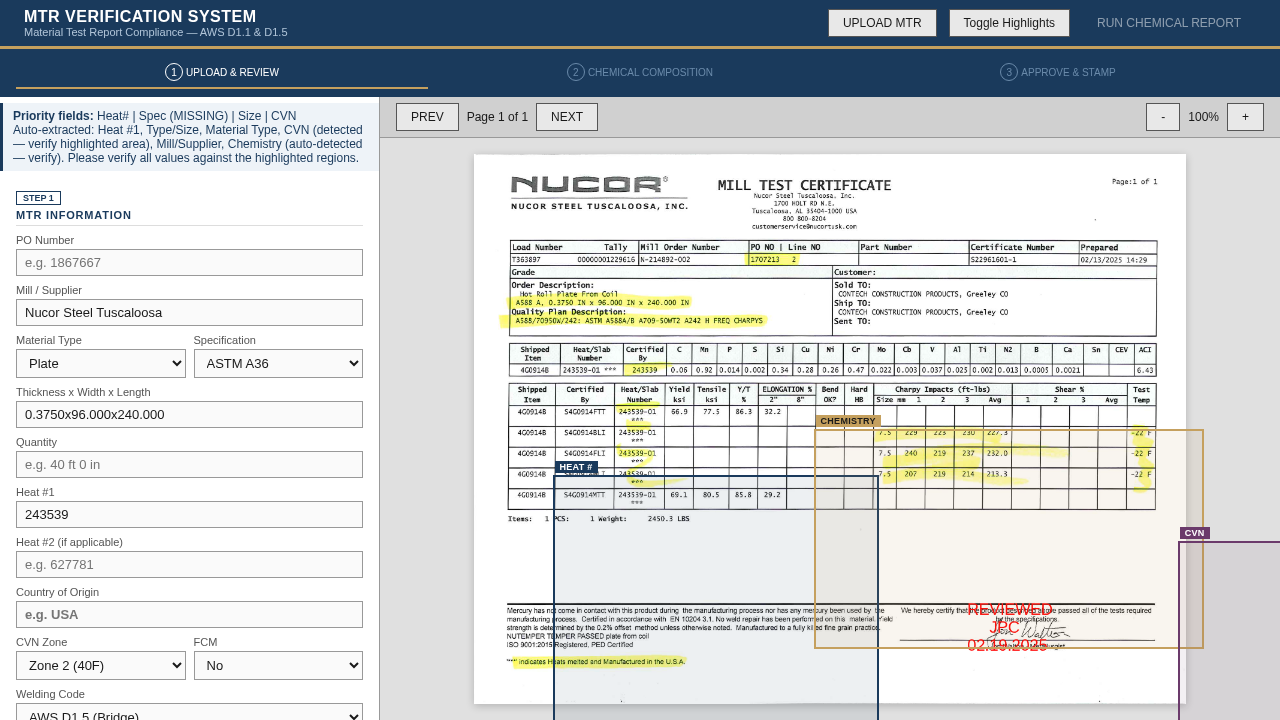
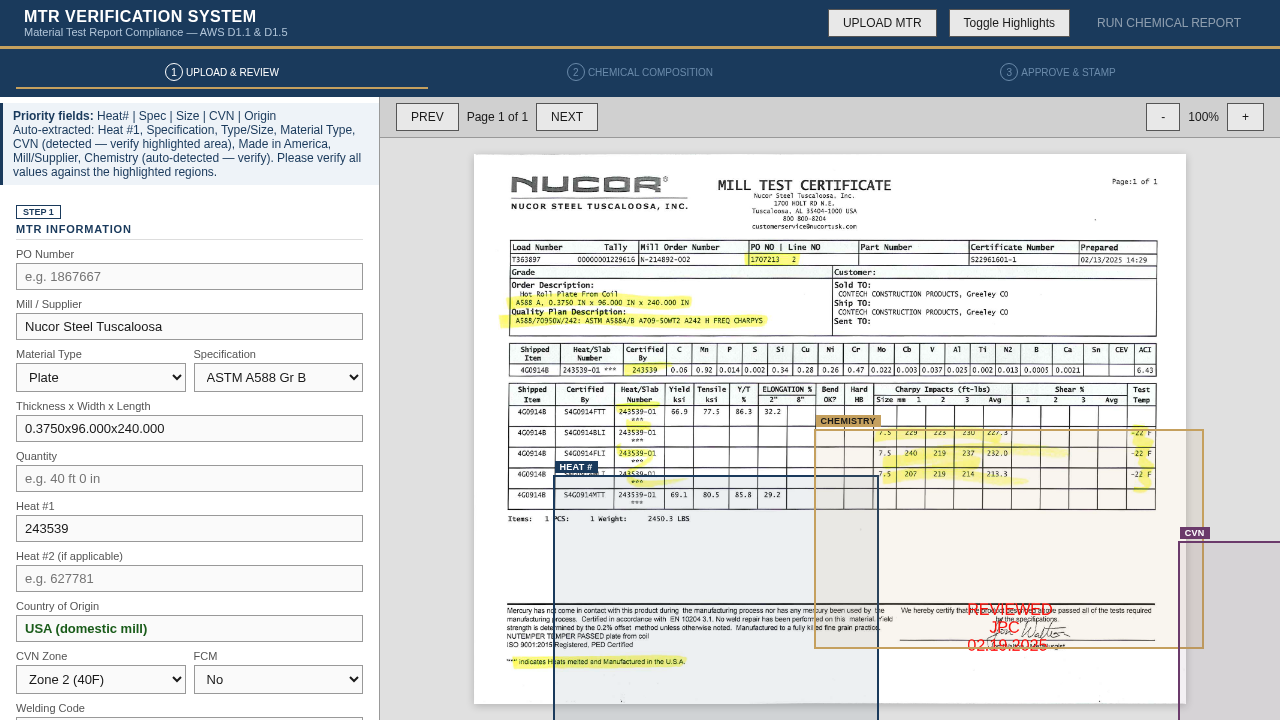
Auto-commit agent changes

diff --git a/conversations/6a6b81c94bc0607c48a32cc0/mtr_verifier.html b/conversations/6a6b81c94bc0607c48a32cc0/mtr_verifier.html
@@ -695,8 +695,17 @@ async function extractMtrData() {
         });
 
         var pageOcrText = (result && result.data && result.data.text) || '';
+        // Also build text from word list (more complete — result.data.text sometimes misses words)
+        var ocrWordText = '';
+        if (result && result.data && result.data.words) {
+          ocrWordText = result.data.words.filter(function(w) { return w.text; }).map(function(w) { return w.text; }).join(' ');
+        }
         ocrText += pageOcrText + '\n';
         allText += pageOcrText + '\n';
+        // Append word text as supplement if it's significantly longer (catches missed words)
+        if (ocrWordText.length > pageOcrText.length * 1.1) {
+          allText += ocrWordText + '\n';
+        }
 
         var ocrWords = [];
         if (result && result.data && result.data.words) {
@@ -744,7 +753,7 @@ function parseMtrText(text, area) {
     var raw = hm[1];
     var val = raw.replace(/t/gi, '1').replace(/I/g, '1').replace(/o/gi, '0').replace(/O/g, '0').replace(/[^A-Z0-9]/gi, '');
     var digitCount = (val.match(/\d/g) || []).length;
-    if (val.length >= 5 && val.length <= 12 && digitCount >= 4 && heatNums.indexOf(val) === -1) {
+    if (val.length >= 5 && val.length <= 14 && digitCount >= 4 && heatNums.indexOf(val) === -1) {
       // Exclude numbers that appear after weight/qty labels
       var ctx = flat.substring(Math.max(0, hm.index - 25), hm.index);
       if (!/LBS|PCS|LB\s|WEIGHT|DLVRY|Date|Total|Order|Load|Tally|Phone|ZIP|Cert\b|BOL\b|Material|Sales|Mill|Page/i.test(ctx)) {
@@ -776,7 +785,7 @@ function parseMtrText(text, area) {
 
   // Strategy 4: Any standalone 6-7 digit number near "heat" or "slab" keyword (fuzzy)
   if (heatNums.length === 0) {
-    var fuzzyHeatRe = /(\d{6,7})(?=[^0-9])/g;
+    var fuzzyHeatRe = /\b(\d{6,8})\b/g;
     while ((hm = fuzzyHeatRe.exec(flat)) !== null) {
       var ctx2 = flat.substring(Math.max(0, hm.index - 50), hm.index + 30);
       if (/HEAT|SLAB|MELT|POUR/i.test(ctx2) && heatNums.indexOf(hm[1]) === -1) {
@@ -852,7 +861,7 @@ function parseMtrText(text, area) {
     // A572-50
     if (!specDetected && /\bA572[\s\-\/]*(?:GR(?:ADE)?\.?\s*)?50/i.test(flat)) specDetected = 'A572-50';
     // A500-B/C (HSS tubing)
-    if (!specDetected && /\bA500[\s\-\/]*(?:GR(?:ADE)?\.?\s*)?[BC]/i.test(flat)) specDetected = 'A500-B';
+    if (!specDetected && /\bA500[\d\s\-\/]*(?:GR(?:ADE)?\.?\s*)?[BC]/i.test(flat)) specDetected = 'A500-B';
     // A992: non-weathering beam steel
     if (!specDetected && /\bA992\b/i.test(flat)) specDetected = 'A992';
     // A36: mild steel (check last — it's common in remarks too)
@@ -957,6 +966,21 @@ function parseMtrText(text, area) {
       }
       initChem();
     }
+    // HSS size fallback: if material is HSS but size wasn't found via "HSS" prefix,
+    // try generic "WxHxWall" pattern (OCR may garble the "HSS" label)
+    if (matDetected.indexOf('hss') === 0 && !sizeStr) {
+      // Look for "WxHxWall" near "Material" label (Atlas Tube format)
+      var hssDim = flat.match(/Material\s*:?\s*[~]*\s*(\d+(?:\.\d+)?)\s*[Xx]\s*(\d+(?:\.\d+)?)\s*[Xx]\s*(\d{3,4}(?:\.\d+)?)/i);
+      if (!hssDim) {
+        // Fallback: any "WxHxWall" pattern with wall = 3-4 digits (e.g. 375 = 0.375")
+        hssDim = flat.match(/(\d{1,3}(?:\.\d+)?)\s*[Xx]\s*(\d{1,3}(?:\.\d+)?)\s*[Xx]\s*(\d{3,4}(?:\.\d+)?)(?![\d.])/);
+      }
+      if (hssDim) {
+        sizeStr = hssDim[1] + 'x' + hssDim[2] + 'x' + hssDim[3];
+        document.getElementById('beam-type').value = sizeStr;
+        if (found.indexOf('Type/Size') === -1) found.push('Type/Size');
+      }
+    }
     found.push('Material Type');
   }
 
@@ -979,6 +1003,10 @@ function parseMtrText(text, area) {
     countryOrigin = 'USA';
   } else if (/BUY\s+AMER/i.test(flat)) {
     countryOrigin = 'USA (Buy America)';
+  }
+  // Fallback: known domestic mills with USA in address (catches OCR-missed origin text)
+  if (!countryOrigin && /USA\b/i.test(flat) && /NUCOR|CMC\s+STEEL|ATLAS\s+TUBE|STEEL\s+ALABAMA|TUSCALOOSA|YAMATO|NIPPON|BERKSHIRE|STEEL\s+DYNAMICS|GALLATIN/i.test(flat)) {
+    countryOrigin = 'USA (domestic mill)';
   }
   if (countryOrigin) {
     document.getElementById('country-origin').value = countryOrigin;

diff --git a/conversations/6a6b81c94bc0607c48a32cc0/test_debug2.js b/conversations/6a6b81c94bc0607c48a32cc0/test_debug2.js
@@ -1,0 +1,97 @@
+const { chromium } = require('playwright');
+
+(async () => {
+  const browser = await chromium.launch();
+  
+  const tests = [
+    { name: 'CMC Channel', file: 'incoming_files/2a5e1d73e_1096119C8X1875A36PO-1723925.pdf' },
+    { name: 'Atlas Tube', file: 'incoming_files/a7d1dca58_822K36240HSS10SQX375A500PO-1755673.pdf' }
+  ];
+
+  for (const t of tests) {
+    const page = await browser.newPage();
+    page.on('dialog', async d => { await d.accept(); });
+    
+    // Use addInitScript to override before page scripts load
+    await page.addInitScript(() => {
+      window.__rawTexts = [];
+      const origParse = window.parseMtrText;
+      // Use defineProperty to intercept
+      Object.defineProperty(window, 'parseMtrText', {
+        get: function() { return function(text, area) { window.__rawTexts.push(text); return window.__origParseMtrText.call(this, text, area); }; },
+        set: function(v) { window.__origParseMtrText = v; },
+        configurable: true
+      });
+    });
+    
+    await page.goto('http://localhost:8899/mtr_verifier.html', { waitUntil: 'networkidle' });
+    await page.waitForTimeout(500);
+    
+    const fileInput = await page.$('#file-input');
+    await fileInput.setInputFiles(t.file);
+    for (let i = 0; i < 40; i++) {
+      await page.waitForTimeout(1000);
+      const statusText = await page.evaluate(() => document.getElementById('extract-area')?.innerText || '');
+      if (statusText.includes('Auto-extracted') || statusText.includes('Could not')) break;
+    }
+    
+    const rawTexts = await page.evaluate(() => window.__rawTexts || []);
+    const rawText = rawTexts.length > 0 ? rawTexts[0] : '';
+    var flat = rawText.replace(/[ \t]+/g,' ').replace(/\s*\n\s*/g,' \n ').trim().replace(/\n/g,' ').replace(/\s+/g,' ');
+    flat = flat.replace(/\bAS88\b/gi,'A588').replace(/\bAS36\b/gi,'A36');
+    
+    console.log('\n=== ' + t.name + ' (len=' + rawText.length + ') ===');
+    
+    if (rawText.length === 0) {
+      // Fallback: read from pageContentCache
+      const cached = await page.evaluate(() => {
+        var out = [];
+        for (var k in window.pageContentCache) {
+          var c = window.pageContentCache[k];
+          if (c.type === 'ocr' && c.words) out.push(c.words.map(w=>w.str).join(' '));
+          else if (c.type === 'text' && c.items) out.push(c.items.map(it=>it.str).join(' '));
+        }
+        return out.join('\n');
+      });
+      console.log('Using cache instead, len:', cached.length);
+      flat = cached.replace(/\n/g,' ').replace(/\s+/g,' ');
+      flat = flat.replace(/\bAS88\b/gi,'A588').replace(/\bAS36\b/gi,'A36');
+    }
+    
+    // Search for size patterns
+    console.log('--- Size ---');
+    var sizeRes = [/C\d+X\d+\.?\d*/gi, /W\d+X\d+/gi, /HSS\d+/gi, /10\s*SQ/gi, /\d+\.?\d*X\d+\.?\d*X\d+\.?\d*/gi];
+    for (var p of sizeRes) {
+      var m;
+      while ((m = p.exec(flat)) !== null) {
+        console.log(m[0], 'ctx:', flat.substring(Math.max(0,m.index-15), m.index+m[0].length+10).replace(/\n/g,'|'));
+      }
+    }
+    
+    // Spec patterns
+    console.log('--- Spec ---');
+    [/A500/g, /A588/g, /A36/g, /A709/g, /GRADE/gi].forEach(function(sp) {
+      var m;
+      while ((m = sp.exec(flat)) !== null) {
+        console.log(m[0], 'ctx:', flat.substring(Math.max(0,m.index-5), m.index+m[0].length+20).replace(/\n/g,'|'));
+      }
+    });
+    
+    // Numbers
+    console.log('--- Numbers ---');
+    var nm; var numRe = /\b(\d{6,})\b/g;
+    while ((nm = numRe.exec(flat)) !== null) {
+      console.log(nm[1], 'ctx:', flat.substring(Math.max(0,nm.index-15), nm.index+nm[1].length+5).replace(/\n/g,'|'));
+    }
+    
+    // Origin
+    console.log('--- Origin ---');
+    var om; var originRe = /MELT|MELTED|MANUFACTUR|MADE\s*IN|USA|AMERICA/gi;
+    while ((om = originRe.exec(flat)) !== null) {
+      console.log(om[0], 'at', om.index, ':', flat.substring(Math.max(0,om.index-5), om.index+om[0].length+15).replace(/\n/g,'|'));
+    }
+    
+    await page.close();
+  }
+  await browser.close();
+})();

diff --git a/conversations/6a6b81c94bc0607c48a32cc0/test_debug_channel_atlas.js b/conversations/6a6b81c94bc0607c48a32cc0/test_debug_channel_atlas.js
@@ -1,0 +1,89 @@
+const { chromium } = require('playwright');
+
+(async () => {
+  const browser = await chromium.launch();
+  
+  const tests = [
+    { name: 'CMC Channel', file: 'incoming_files/2a5e1d73e_1096119C8X1875A36PO-1723925.pdf' },
+    { name: 'Atlas Tube', file: 'incoming_files/a7d1dca58_822K36240HSS10SQX375A500PO-1755673.pdf' }
+  ];
+
+  for (const t of tests) {
+    const page = await browser.newPage();
+    page.on('dialog', async d => { await d.accept(); });
+    
+    let rawText = '';
+    await page.evaluate(() => {
+      const orig = window.parseMtrText;
+      window.parseMtrText = function(text, area) {
+        window.__rawText = text;
+        return orig.call(this, text, area);
+      };
+    });
+    
+    await page.goto('http://localhost:8899/mtr_verifier.html', { waitUntil: 'networkidle' });
+    await page.waitForTimeout(300);
+    const fileInput = await page.$('#file-input');
+    await fileInput.setInputFiles(t.file);
+    for (let i = 0; i < 40; i++) {
+      await page.waitForTimeout(1000);
+      const statusText = await page.evaluate(() => document.getElementById('extract-area')?.innerText || '');
+      if (statusText.includes('Auto-extracted') || statusText.includes('Could not')) break;
+    }
+    
+    rawText = await page.evaluate(() => window.__rawText || '');
+    var flat = rawText.replace(/[ \t]+/g,' ').replace(/\s*\n\s*/g,' \n ').trim().replace(/\n/g,' ').replace(/\s+/g,' ');
+    // OCR corrections
+    flat = flat.replace(/\bAS88\b/gi,'A588').replace(/\bAS36\b/gi,'A36');
+    
+    console.log('\n=== ' + t.name + ' ===');
+    console.log('Text length:', rawText.length);
+    
+    // Search for size patterns
+    console.log('--- Size patterns ---');
+    var sizePatterns = [
+      { re: /C\d+X\d+\.?\d*/gi, name: 'C-channel' },
+      { re: /W\d+X\d+/gi, name: 'W-beam' },
+      { re: /\d+X\d+X\d+\/?\d*/gi, name: 'angle/HSS' },
+      { re: /HSS\d+/gi, name: 'HSS' },
+      { re: /\d+\.?\d*X\d+\.?\d*/gi, name: 'generic X' },
+      { re: /10\s*SQ/gi, name: '10SQ' }
+    ];
+    for (var p of sizePatterns) {
+      var m;
+      while ((m = p.re.exec(flat)) !== null) {
+        var ctx = flat.substring(Math.max(0,m.index-20), m.index+m[0].length+10);
+        console.log(p.name + ':', m[0], 'ctx:', ctx.replace(/\n/g,'|'));
+      }
+    }
+    
+    // Search for spec/grade
+    console.log('--- Spec patterns ---');
+    var specPatterns = [/A500/gi, /A588/gi, /A36/gi, /A709/gi, /GRADE/gi, /A992/gi];
+    for (var sp of specPatterns) {
+      var m;
+      while ((m = sp.exec(flat)) !== null) {
+        console.log(m[0], 'at', m.index, ':', flat.substring(Math.max(0,m.index-10), m.index+m[0].length+20).replace(/\n/g,'|'));
+      }
+    }
+    
+    // Search for heat numbers (6-7 digits)
+    console.log('--- Numbers (6+ digits) ---');
+    var numRe = /\b(\d{6,})\b/g;
+    var nm;
+    while ((nm = numRe.exec(flat)) !== null) {
+      console.log('NUM', nm[1], 'ctx:', flat.substring(Math.max(0,nm.index-20), nm.index+nm[1].length+5).replace(/\n/g,'|'));
+    }
+    
+    // Made in / origin
+    console.log('--- Origin ---');
+    var originRe = /MELT|MELTED|MANUFACTUR|MADE\s*IN|USA|AMERICA/gi;
+    var om;
+    while ((om = originRe.exec(flat)) !== null) {
+      console.log(om[0], 'at', om.index, ':', flat.substring(Math.max(0,om.index-5), om.index+om[0].length+15).replace(/\n/g,'|'));
+    }
+    
+    await page.close();
+  }
+  await browser.close();
+})();

diff --git a/conversations/6a6b81c94bc0607c48a32cc0/test_debug_origin.js b/conversations/6a6b81c94bc0607c48a32cc0/test_debug_origin.js
@@ -1,0 +1,66 @@
+const { chromium } = require('playwright');
+
+(async () => {
+  const browser = await chromium.launch();
+  const page = await browser.newPage();
+  page.on('dialog', async d => { await d.accept(); });
+  
+  let parseText = '';
+  await page.goto('http://localhost:8899/mtr_verifier.html', { waitUntil: 'networkidle' });
+  
+  // Override parseMtrText to capture the text
+  await page.evaluate(() => {
+    const orig = window.__origParseMtrText || window.parseMtrText;
+    window.__origParseMtrText = orig;
+    window.parseMtrText = function(text, area) {
+      window.__capturedText = text;
+      return orig.call(this, text, area);
+    };
+  });
+  
+  await page.waitForTimeout(300);
+  const fileInput = await page.$('#file-input');
+  await fileInput.setInputFiles('incoming_files/41b08b62d_243539PLATE375X96X240A588WITHCVNPO-1707213.pdf');
+  
+  for (let i = 0; i < 40; i++) {
+    await page.waitForTimeout(1000);
+    const statusText = await page.evaluate(() => document.getElementById('extract-area')?.innerText || '');
+    if (statusText.includes('Auto-extracted') || statusText.includes('Could not')) break;
+  }
+  
+  const text = await page.evaluate(() => window.__capturedText || '');
+  const flat = text.replace(/[ \t]+/g,' ').replace(/\s*\n\s*/g,' \n ').trim().replace(/\n/g,' ').replace(/\s+/g,' ')
+    .replace(/\bAS88\b/gi,'A588').replace(/\bAS36\b/gi,'A36');
+  
+  console.log('Text length:', text.length);
+  console.log('Flat length:', flat.length);
+  
+  // Search for origin keywords
+  const patterns = ['MELTED', 'MANUFACTUR', 'MADE IN', 'BUY AMER', 'USA', 'AMERICA', 'MELT'];
+  patterns.forEach(p => {
+    const idx = flat.toUpperCase().indexOf(p);
+    if (idx !== -1) {
+      console.log(p, 'found at', idx, ':', flat.substring(Math.max(0,idx-10), idx+30).replace(/\n/g,'|'));
+    } else {
+      console.log(p, 'NOT FOUND');
+    }
+  });
+  
+  // Also check word list directly
+  const wordText = await page.evaluate(() => {
+    var out = [];
+    for (var k in window.pageContentCache) {
+      var c = window.pageContentCache[k];
+      if (c.type === 'ocr' && c.words) out.push(c.words.map(w=>w.str).join(' '));
+    }
+    return out.join(' ');
+  });
+  console.log('\nWord text length:', wordText.length);
+  const buyIdx = wordText.toUpperCase().indexOf('BUY AMER');
+  console.log('BUY AMER in word text:', buyIdx);
+  if (buyIdx !== -1) {
+    console.log('Context:', wordText.substring(Math.max(0,buyIdx-10), buyIdx+30));
+  }
+  
+  await browser.close();
+})();
